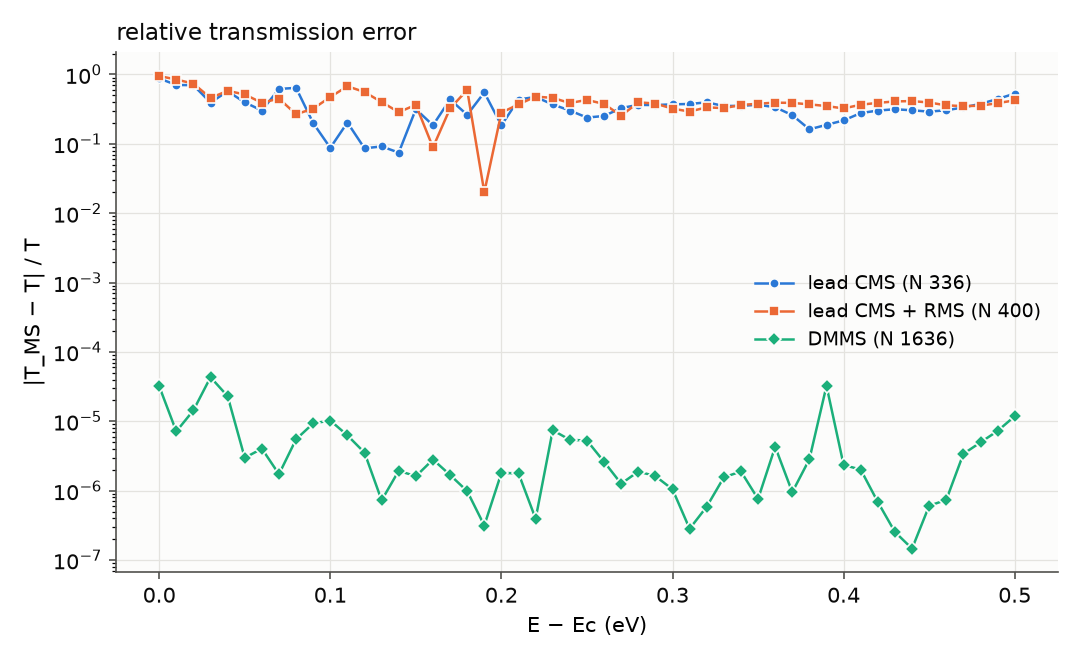
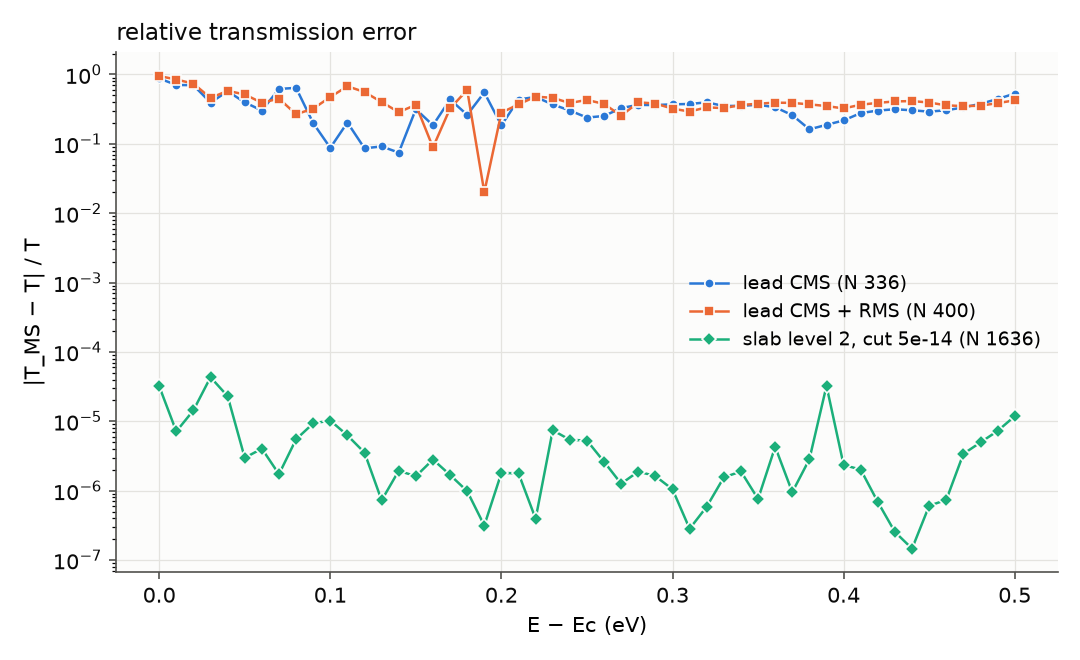
Basis naming: partition / level / cut instead of DMMS; figures relabelled; gate barrier prep, slab_l1_modes

Changed region(s): [[0.6417, 0.3939, 0.9778, 0.5455]]

diff --git a/qtx_ms/prep/gate_barrier.py b/qtx_ms/prep/gate_barrier.py
@@ -1,0 +1,50 @@
+"""Gate barrier on a generic input set: H += (V S + S V) / 2 (QuaTrEx convention), V per atom from its transport
+coordinate, V(x) = Vb * [tanh((x - x1) / w) - tanh((x - x2) / w)] / 2, zero on the lead blocks (asserted small at
+the device faces). Default x1 / x2: the outer faces of the device slabs given by --slabs (default the middle two).
+Everything else is linked from the source set (same lead, same Sigma cache can be reused).
+
+    python -m qtx_ms.prep.gate_barrier --inputs inputs/mos2_hfo2 --Vb 0.4 --out inputs/mos2_hfo2_gate0.4
+"""
+import argparse, json, os
+import numpy as np
+import scipy.sparse as sp
+from qtx_ms.prep.inputs import read_inputs
+
+p = argparse.ArgumentParser(description=__doc__, formatter_class=argparse.RawDescriptionHelpFormatter)
+p.add_argument("--inputs", required=True)
+p.add_argument("--out", required=True)
+p.add_argument("--Vb", type=float, required=True, help="barrier height [eV]")
+p.add_argument("--slabs", default="1,2", help="device slabs under the gate (0-based device slab indices)")
+p.add_argument("--w", type=float, default=2.0, help="ramp width [A]")
+a = p.parse_args()
+inp = read_inputs(a.inputs)
+meta = inp["meta"]
+ax = meta.get("axis", 0)
+x = inp["xyz"][:, ax]
+dblk = meta["transport"]["device_blocks"]
+sl = [dblk[int(s)] for s in a.slabs.split(",")]
+x1 = x[np.isin(inp["blocks"], sl)].min()
+x2 = x[np.isin(inp["blocks"], sl)].max()
+Va = a.Vb * 0.5 * (np.tanh((x - x1) / a.w) - np.tanh((x - x2) / a.w))
+lead = np.isin(inp["blocks"], [meta["transport"]["lead_left_block"], meta["transport"]["lead_right_block"]])
+print(f"barrier {a.Vb} eV over x = {x1:.2f} ... {x2:.2f} A (blocks {sl}), ramp {a.w} A; max |V| on lead blocks "
+      f"{np.abs(Va[lead]).max():.1e} eV -> set to 0")
+Va[lead] = 0.0
+V = sp.diags(np.repeat(Va, inp["norb"]))
+S = inp["S"]
+H = (inp["H"] + 0.5 * (V @ S + S @ V)).tocsr()
+H = (0.5 * (H + H.T.conj())).tocsr()
+src = os.path.abspath(a.inputs)
+os.makedirs(a.out, exist_ok=True)
+for f in os.listdir(src):
+    if f in ("H.npz", "meta.json") or f.startswith("meta.json."):
+        continue
+    dst = os.path.join(a.out, f)
+    if not os.path.exists(dst):
+        os.symlink(os.path.join(src, f), dst)
+sp.save_npz(os.path.join(a.out, "H.npz"), H)
+meta = dict(meta, gate=dict(Vb=a.Vb, x1=float(x1), x2=float(x2), w=a.w, slabs=a.slabs, source=src,
+                            convention="H += (V S + S V) / 2"))
+json.dump(meta, open(os.path.join(a.out, "meta.json"), "w"), indent=1)
+np.save(os.path.join(a.out, "potential_atoms.npy"), Va)
+print(f"-> {a.out}")

diff --git a/reports/2026-11-04-mos2-hfo2-leadcms-vs-dmms/make_figures.py b/reports/2026-11-04-mos2-hfo2-leadcms-vs-dmms/make_figures.py
@@ -5,7 +5,8 @@
 bands: exact lead bands | lead CMS (N 84 per cell) | after spurious-band removal (RMS, N 100)
 scan : T, |T_MS - T| / T, MS residual |b - A x_MS| / |b| vs E on the 10 meV grid Ec + 0 ... 0.5 eV
        (lead CMS, lead CMS + RMS: results_ms/mos2_hfo2_leadcms/modes/*_scan.json;
-        DMMS = direct level 2, global rho, n400 per slab + end-slab lead RMS, N 1636:
+        slab level 2 (direct: global rho on the fine device), top 400 per slab = cut ~5e-14
+        (lambda_400 1e-14 ... 6e-14), + end-slab lead RMS, N 1636:
         results_ms/mos2_hfo2_l2direct/modes/mu-0.15_0.6_n400_lead_scan.json)
 contours: the Beyn contours c1 / c2 / c3 (complex E plane) next to the lead bands, eigenvalues found
 modes: full-size OBC nonlinear eigenmodes T(lambda) v = 0 (Beyn, contours c1 / c2 / c3, results_ms/obc_eig/c*),
@@ -27,7 +28,7 @@ from qtx_ms import msbasis as mb                                   # noqa: E402
 INK, MUTED, GRID, SURF = "#0b0b0b", "#52514e", "#e4e3df", "#fcfcfb"
 SERIES = [("cms", "lead CMS (N 336)", "#2a78d6", "o"),
           ("cms_rms", "lead CMS + RMS (N 400)", "#eb6834", "s"),
-          ("dmms", "DMMS (N 1636)", "#1baf7a", "D")]
+          ("dmms", "slab level 2, cut 5e-14 (N 1636)", "#1baf7a", "D")]
 SCANS = dict(cms="results_ms/mos2_hfo2_leadcms/modes/cms_scan.json",
              cms_rms="results_ms/mos2_hfo2_leadcms/modes/cms_rms_scan.json",
              dmms="results_ms/mos2_hfo2_l2direct/modes/mu-0.15_0.6_n400_lead_scan.json")

diff --git a/qtx_ms/slab_l1_modes.py b/qtx_ms/slab_l1_modes.py
@@ -1,0 +1,29 @@
+"""Write slab-partition level-1 bases (one tile per slab, run_ms --tile-orbs 100000) as ms_scan mode files
+<prefix>_slab<s>.npy (slab-local orbitals x modes), keeping occupations > cut.
+
+    python -m qtx_ms.slab_l1_modes --inputs inputs/mos2_hfo2 --tiles results_ms/mos2_hfo2_slabl1_tobc24/tiles_obc_1e-10 \
+        --cut 1e-8 --out results_ms/mos2_hfo2_slabl1_tobc24/modes/t1e-8
+"""
+import argparse, os
+import numpy as np
+from qtx_ms.prep.inputs import read_inputs
+from qtx_ms import msbasis as mb
+
+p = argparse.ArgumentParser(description=__doc__, formatter_class=argparse.RawDescriptionHelpFormatter)
+p.add_argument("--inputs", required=True)
+p.add_argument("--tiles", required=True)
+p.add_argument("--cut", type=float, required=True)
+p.add_argument("--out", required=True)
+a = p.parse_args()
+inp = read_inputs(a.inputs)
+dev = mb.Device(inp, obc="folded")
+blocks, _, _ = mb.partition(dev, cores=False, tile_orbs=100000)
+os.makedirs(os.path.dirname(a.out), exist_ok=True)
+for i, b in enumerate(blocks):
+    z = np.load(os.path.join(a.tiles, f"tile_obc_{i:03d}.npz"))
+    assert np.array_equal(z["atoms"], b["atoms"])
+    k = int(np.sum(z["s"][:z["U"].shape[1]] > a.cut))
+    X = np.zeros((dev.ns[b["slab"]], k), z["U"].dtype)
+    X[b["orbs"]] = z["U"][:, :k]
+    np.save(f"{a.out}_slab{b['slab']}.npy", X)
+    print(f"slab {b['slab']}: {k} modes")

diff --git a/reports/2026-11-04-mos2-hfo2-leadcms-vs-dmms/plot_cms_cuts.py b/reports/2026-11-04-mos2-hfo2-leadcms-vs-dmms/plot_cms_cuts.py
@@ -1,5 +1,5 @@
 """Lead CMS (no spurious-band removal) at different occupation cuts: T and |T_MS - T|/T vs E on the 10 meV grid,
-exact and DMMS for reference. Old: window Ec+0...0.4 eV, 32 k, cut 1e-5; sweep: window Ec-0.15...+0.6 eV, 64 k."""
+exact and slab level 2 (cut ~5e-14) for reference. Old: window Ec+0...0.4 eV, 32 k, cut 1e-5; sweep: window Ec-0.15...+0.6 eV, 64 k."""
 import json, os
 import numpy as np
 import matplotlib
@@ -34,7 +34,7 @@ for f, lab, c, m in S:
     e = np.abs(T - X) / X
     a2.semilogy(d, e, "-" + m, ms=4, lw=0.9, color=c, mec=SURF, mew=0.6, label=lab)
     print(f"{lab}: median {np.median(e):.2f} max {e.max():.2f}")
-a2.semilogy(dE, np.abs(Td - Tx) / Tx, "-D", ms=3.5, lw=0.9, color="#6250d6", mec=SURF, mew=0.6, label="DMMS (N 1636), reference")
+a2.semilogy(dE, np.abs(Td - Tx) / Tx, "-D", ms=3.5, lw=0.9, color="#6250d6", mec=SURF, mew=0.6, label="slab level 2, cut 5e-14 (N 1636), reference")
 a1.set_ylabel("transmission T"); a1.legend(frameon=False, fontsize=8.5)
 a1.set_title("MoS2/HfO2: lead CMS at different occupation cuts", loc="left", fontsize=11, color=INK)
 a2.set_ylabel("|T_MS − T| / T"); a2.set_xlabel("E − Ec (eV)"); a2.legend(frameon=False, fontsize=8, ncol=2, loc="lower left")

diff --git a/CLAUDE.md b/CLAUDE.md
@@ -27,6 +27,10 @@ Both levels are density matrices integrated over a complex contour covering the 
   slabs.)
 Use these names in code comments, logs, notes and reports: "local ρ" = level 1, "global ρ" = level 2; "tile" and
 "slab" name only the partition.
+All of these are density-matrix mode space (DMMS); lead CMS is the other family. Label a basis by partition, level and
+cut, e.g. "slab level 1, cut 1e-8", "slab level 2, cut 5e-14" (the direct level-2 n400 basis: top 400 per slab,
+λ_400 = 1e-14…6e-14, + end-slab lead RMS, N 1636), never just "DMMS". Global ρ decays much faster than local ρ:
+slab 1 level 2 keeps 322 vectors at 1e-10 (level 1: 1159), 220 at 1e-6 (level 1: 352).
 
 ## Method and key equations
 Per energy E:
